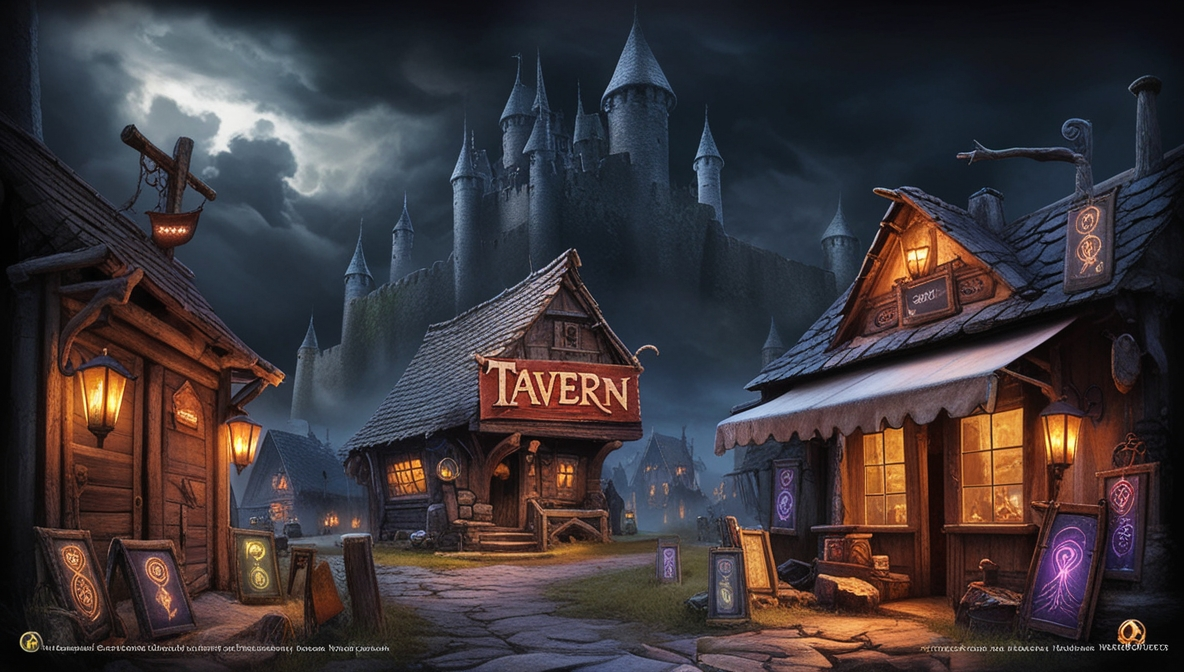
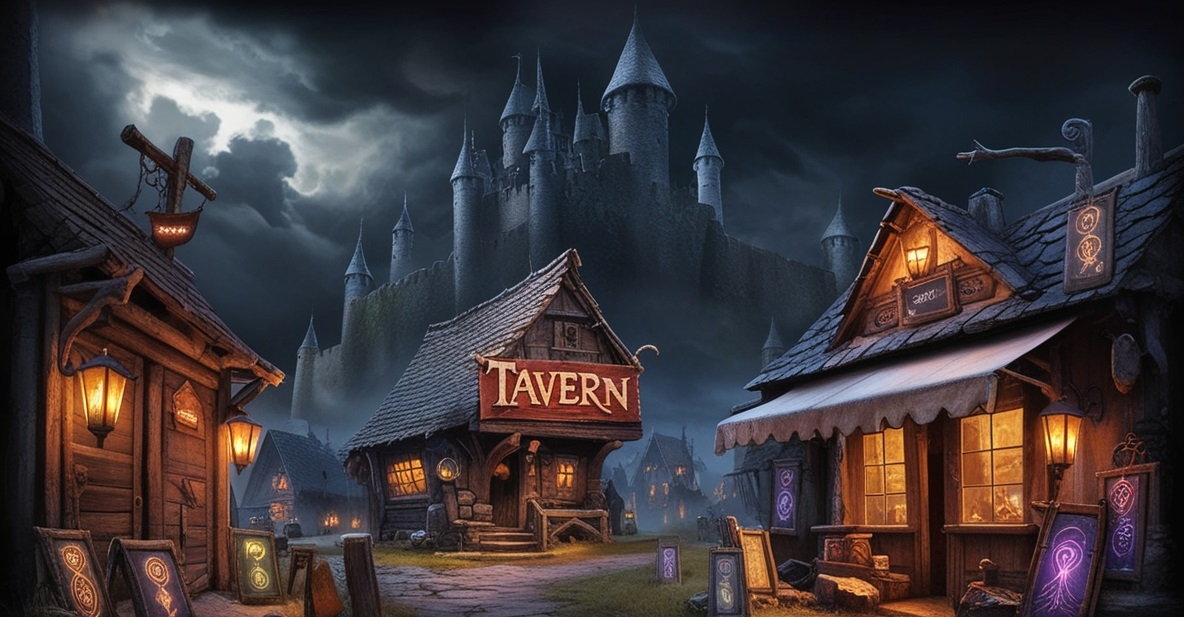
thrd vill and cut img

diff --git a/src/components/Village/Village3_5.jsx b/src/components/Village/Village3_5.jsx
@@ -1,0 +1,24 @@
+import { Village15Container } from "./Village1_5.styled";
+import windVillage from "../../assets/bgvillagesImages/windVillage.jpg";
+
+import { StyledLink, StyledNav } from "./Village.styled";
+
+const Village3_5 = () => {
+  return (
+    <div style={{ marginTop: "120px" }}>
+      <Village15Container>
+        <img src={windVillage} alt="village 1-5" />
+        <h1>Wind Village</h1>
+        <p>this is large village, where living good people</p>
+        <p>they need your help</p>
+        <StyledNav>
+          <StyledLink to="/tavern35">Tavern</StyledLink>
+          <StyledLink to="/market35">Market</StyledLink>
+          <StyledLink to="/armory35">Armory</StyledLink>
+        </StyledNav>
+      </Village15Container>
+    </div>
+  );
+};
+
+export default Village3_5;

diff --git a/src/Pages/VillagePage/VillagePage.jsx b/src/Pages/VillagePage/VillagePage.jsx
@@ -2,17 +2,19 @@ import { useParams } from "react-router-dom";
 
 import Village1_5 from "../../components/Village/Village1_5";
 import Village2_9 from "../../components/Village/Village2_9";
+import Village3_5 from "../../components/Village/Village3_5";
 
 const VillagePage = () => {
   const { id } = useParams(); // Отримуємо ID села з URL
 
-  // Перевіряємо, яке село відкрите, і підключаємо відповідний компонент
   const renderVillageContent = () => {
     switch (id) {
       case "1-5":
         return <Village1_5 />;
       case "2-9":
         return <Village2_9 />;
+      case "3-5":
+        return <Village3_5 />;
       default:
         return (
           <div>
